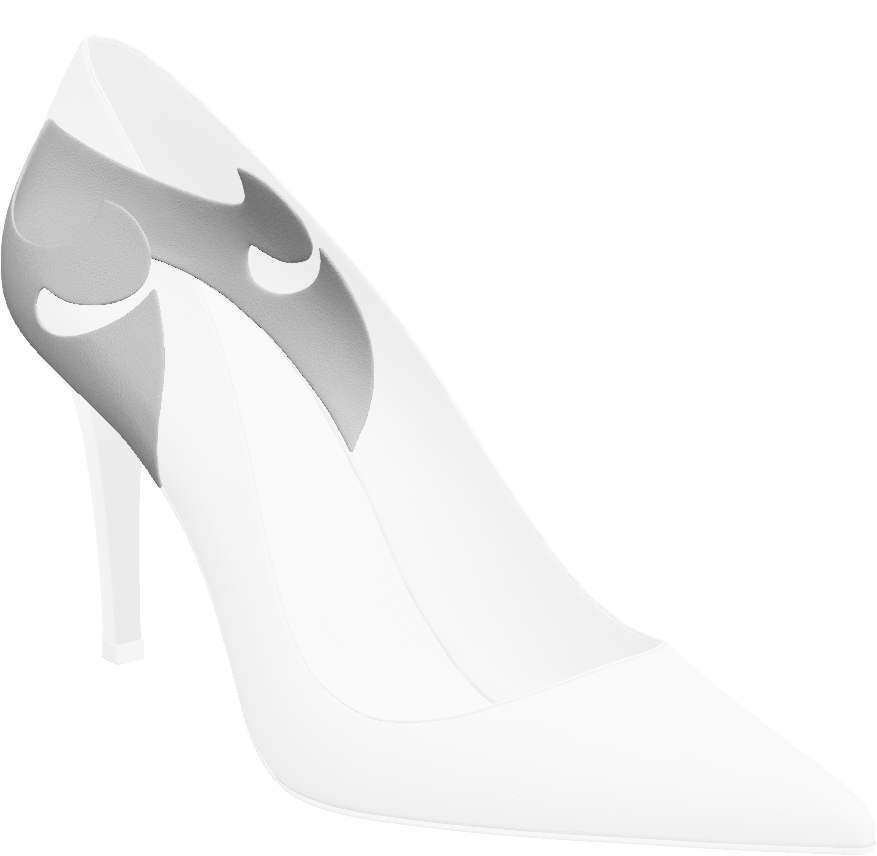
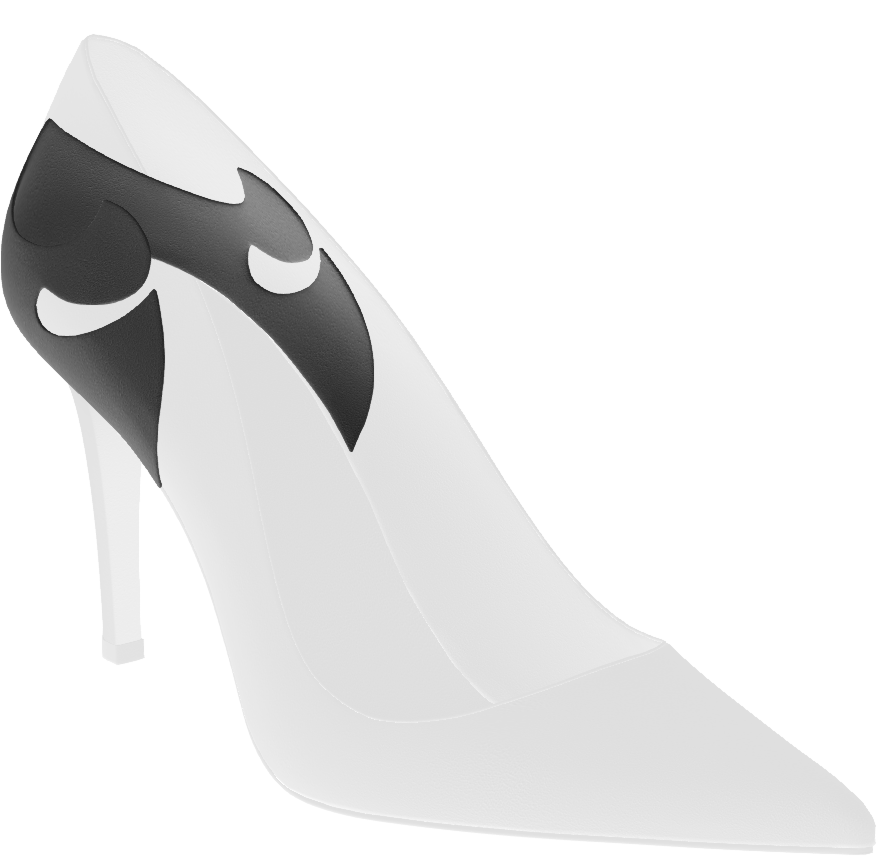
[16026] Customising View - added styles to remote, changed pictures

Changed region(s): [[0.0, 0.1215, 1.0, 0.972]]

diff --git a/src/remotecontrol/css/_configurator.less b/src/remotecontrol/css/_configurator.less
@@ -47,7 +47,7 @@
     }
     .elements{
         margin: 0 10px;
-        width: 31%;
+        width: 21%;
     }
 }
 &.control-active{
@@ -101,7 +101,19 @@
     height: 20px;
 }
 
-[id*='component-']{
+.structures{
+    width: 21%;
+    margin: 0 10px;
+}
+
+//
+
+
+.component{
+    background-color: white !important;
+}
+
+[class*='elsevr_women_1_1_component'][id*='component-']{
     min-height: 80px;
     &:before{
         margin-right: auto;
@@ -134,7 +146,7 @@
         background-image: url(../img/strap.png);
     }
 }
-#component-5{
+#component-6{
     &:before{
         background-image: url(../img/insole.png);
     }
@@ -143,4 +155,67 @@
     &:before{
         background-image: url(../img/lining.png);
     }
+}
+#component-8{
+    &:before{
+        //background-image: url(../img/);
+    }
+}
+
+//colors
+
+.mat_suede_blue{
+    background-color: midnightblue;
+}
+.mat_suede_white{
+    background-color: lightyellow;
+}
+.mat_suede_beige{
+    background-color: beige;
+}
+.mat_suede_red {
+    background-color: firebrick;
+}
+.mat_turquoise_blueshade{
+    background-color: midnightblue;
+}
+.mat_turquoise_greenshade{
+    background-color: forestgreen;
+}
+.mat_suede_black{
+    background-color: black;
+}
+.mat_velukid_10667{
+    background-color: #FF8FB3;
+}
+.mat_velukid_10668{
+    background-color: #CAAFAE;
+}
+.mat_velukid_10675{
+    background-color: #431861;
+}
+.mat_velukid_10683{
+    background-color: #005FFF;
+}
+.mat_velukid_10671{
+    background-color: #C7A574;
+}
+
+
+// right panel
+
+.play-rotate span:first-child{
+    background-image: url("../img/options/play.png");
+    background-repeat: no-repeat;
+    background-position-x: 8%;
+    background-position-y: 55%;
+    background-size: 24px;
+}
+
+.pause-rotate span:first-child{
+    background-image: url("../img/options/pause.png");
+    background-repeat: no-repeat;
+    background-position-x: 8%;
+    background-position-y: 55%;
+    background-size: 24px;
 }

diff --git a/src/remotecontrol/css/main.css b/src/remotecontrol/css/main.css
@@ -356,21 +356,7 @@ span.rotation-icon {
     background-position-y: 55%;
     background-size: 24px;
 }
-.play-rotate span{
-    background-image: url("../img/options/play.png");
-    background-repeat: no-repeat;
-    background-position-x: 8%;
-    background-position-y: 55%;
-    background-size: 24px;
-}
 
-.pause-rotate span{
-    background-image: url("../img/options/pause.png");
-    background-repeat: no-repeat;
-    background-position-x: 8%;
-    background-position-y: 55%;
-    background-size: 24px;
-}
 .fitt-icon, .material-icon, .product-part-icon, .advanced-icon, .rotation-icon {
     background: center center no-repeat;
     background-size: contain;

diff --git a/src/remotecontrol/index.html b/src/remotecontrol/index.html
@@ -167,7 +167,7 @@
                     <div class="structures vertical-bar"
                          :class="setClass(data.active_component_id, 'component')"
                          v-if="data.active_component.configurable && data.active_structure.visible">
-                        <div class="column_1">{{tr("Structure")}}</div>
+                        <div class="column_1 table-header">{{tr("Structure")}}</div>
                         <div class="structure empty-strucutre"
                              @click="changeStructure(0)"
                              v-if="data.active_component.optional"

diff --git a/src/mainscreen/css/_common.less b/src/mainscreen/css/_common.less
@@ -2,6 +2,10 @@
     .box-sizing(border-box);
 }
 
+.container{
+    background: url(../img/bg.png) no-repeat;
+}
+
 #else-mainscreen-control{
     min-height: 100vh;
 
